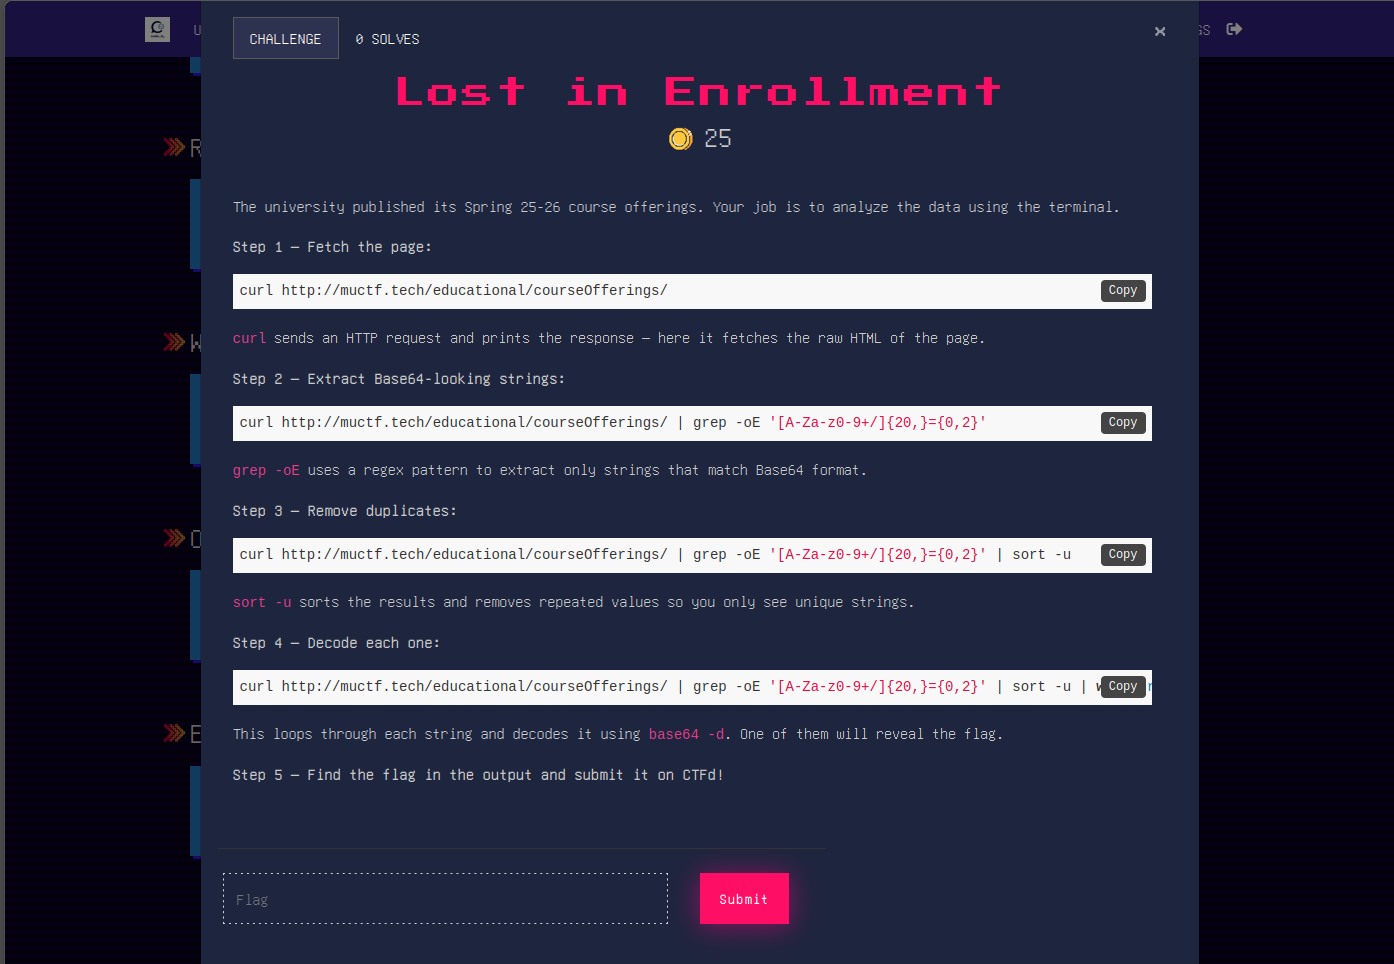
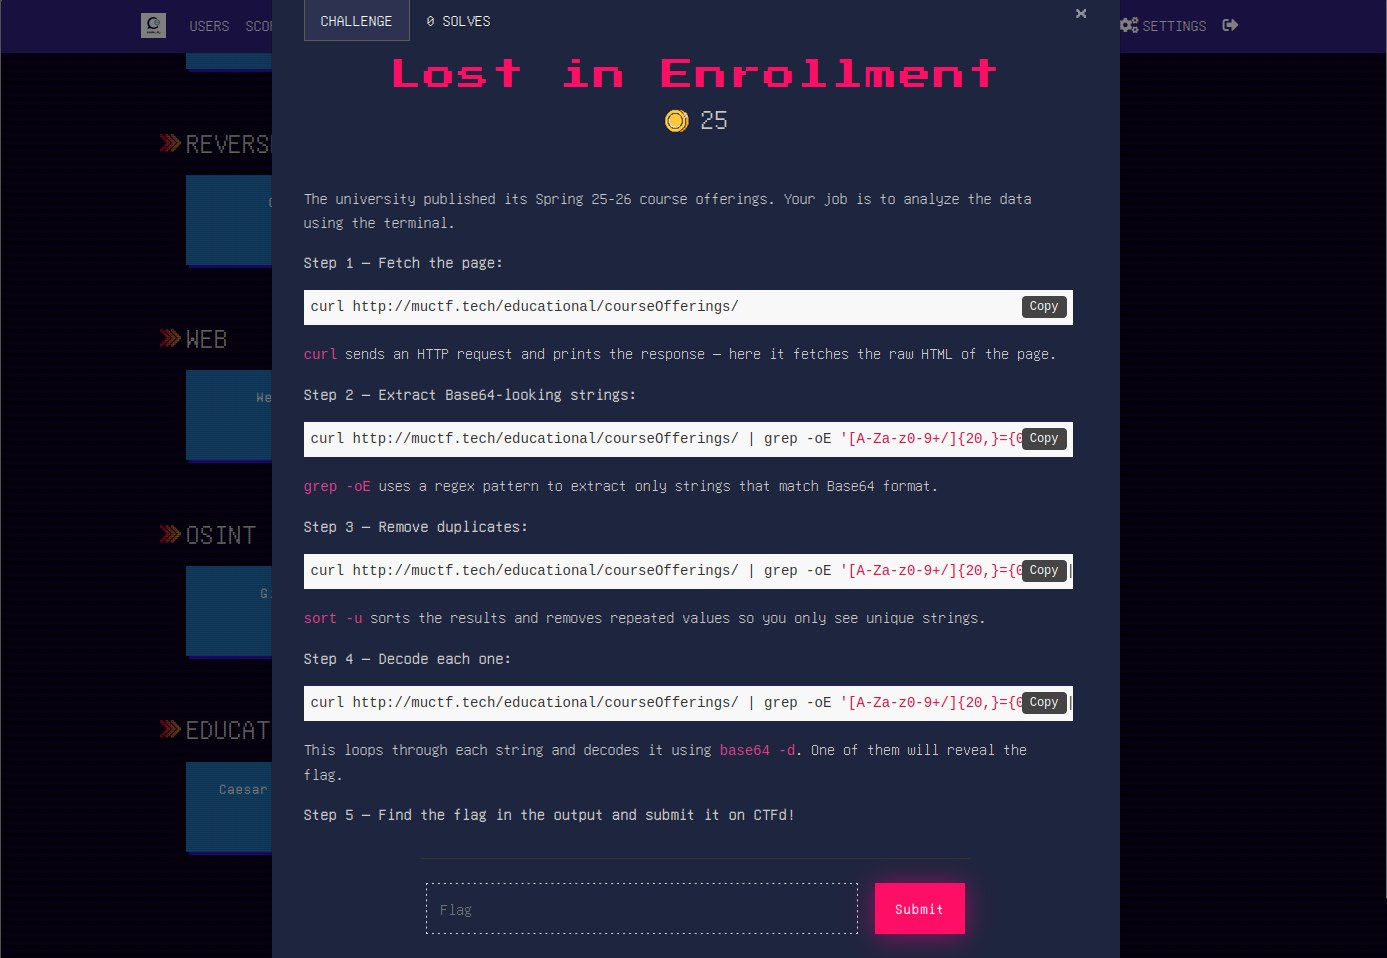
fixed UI issues

diff --git a/theme-header.html b/theme-header.html
@@ -1,7 +1,7 @@
 <style>
 .modal-dialog {
-    max-width: 1000px !important;
-    width: 1000px !important;
+    max-width: 850px !important;
+    width: 850px !important;
     margin: 30px auto !important;
     top: 0 !important;
     transform: none !important;
@@ -28,13 +28,14 @@
 }
 
 .challenge-value {
-    margin-bottom: 40px !important;
+    margin-bottom: 0px !important;
 }
 
 .challenge-desc {
     display: block;
     float: left !important;
-    width: 65%;
+    width: 75%;
+    margin-top: 50px !important;
     padding-right: 15px;
     clear: none !important;
     overflow: hidden !important;
@@ -44,30 +45,34 @@
     float: left !important;
     width: 65% !important;
     clear: left !important;
+    margin-bottom: 0 !important;
 }
 
+
 .submit-row {
-    float: left !important;
-    width: 65% !important;
-    clear: none !important;
+    clear: both !important;
+    width: 70% !important;
+    margin-left: auto !important;
+    margin-right: auto !important;
     display: flex !important;
     flex-wrap: nowrap !important;
     align-items: center !important;
+    justify-content: center !important;
     border-top: 1px solid #333 !important;
-    margin-top: 30px !important;
+    margin-top: 40px !important;
     padding-top: 24px !important;
     padding-bottom: 8px !important;
 }
 
 .submit-row .col-md-9 {
     padding-left: 5px !important;
-    padding-right: 5px !important;
-    flex: 0 0 75% !important;
-    max-width: 75% !important;
+    padding-right: 2px !important;
+    flex: 0 0 80% !important;
+    max-width: 80% !important;
 }
 
 .submit-row .col-md-3 {
-    padding-left: 5px !important;
+    padding-left: 2px !important;
     padding-right: 5px !important;
     flex: 0 0 20% !important;
     max-width: 20% !important;
@@ -75,10 +80,10 @@
 
 .hint-row {
     float: right !important;
-    width: 30% !important;
+    width: 25% !important;
     display: grid !important;
     grid-template-columns: repeat(2, 70px) !important;
-    gap: 8px !important;
+    gap: 12px !important;
     justify-content: center !important;
     align-content: start !important;
 }
@@ -127,7 +132,6 @@
 pre {
     position: relative;
 }
-
 .copy-btn {
     position: absolute;
     top: 6px;
